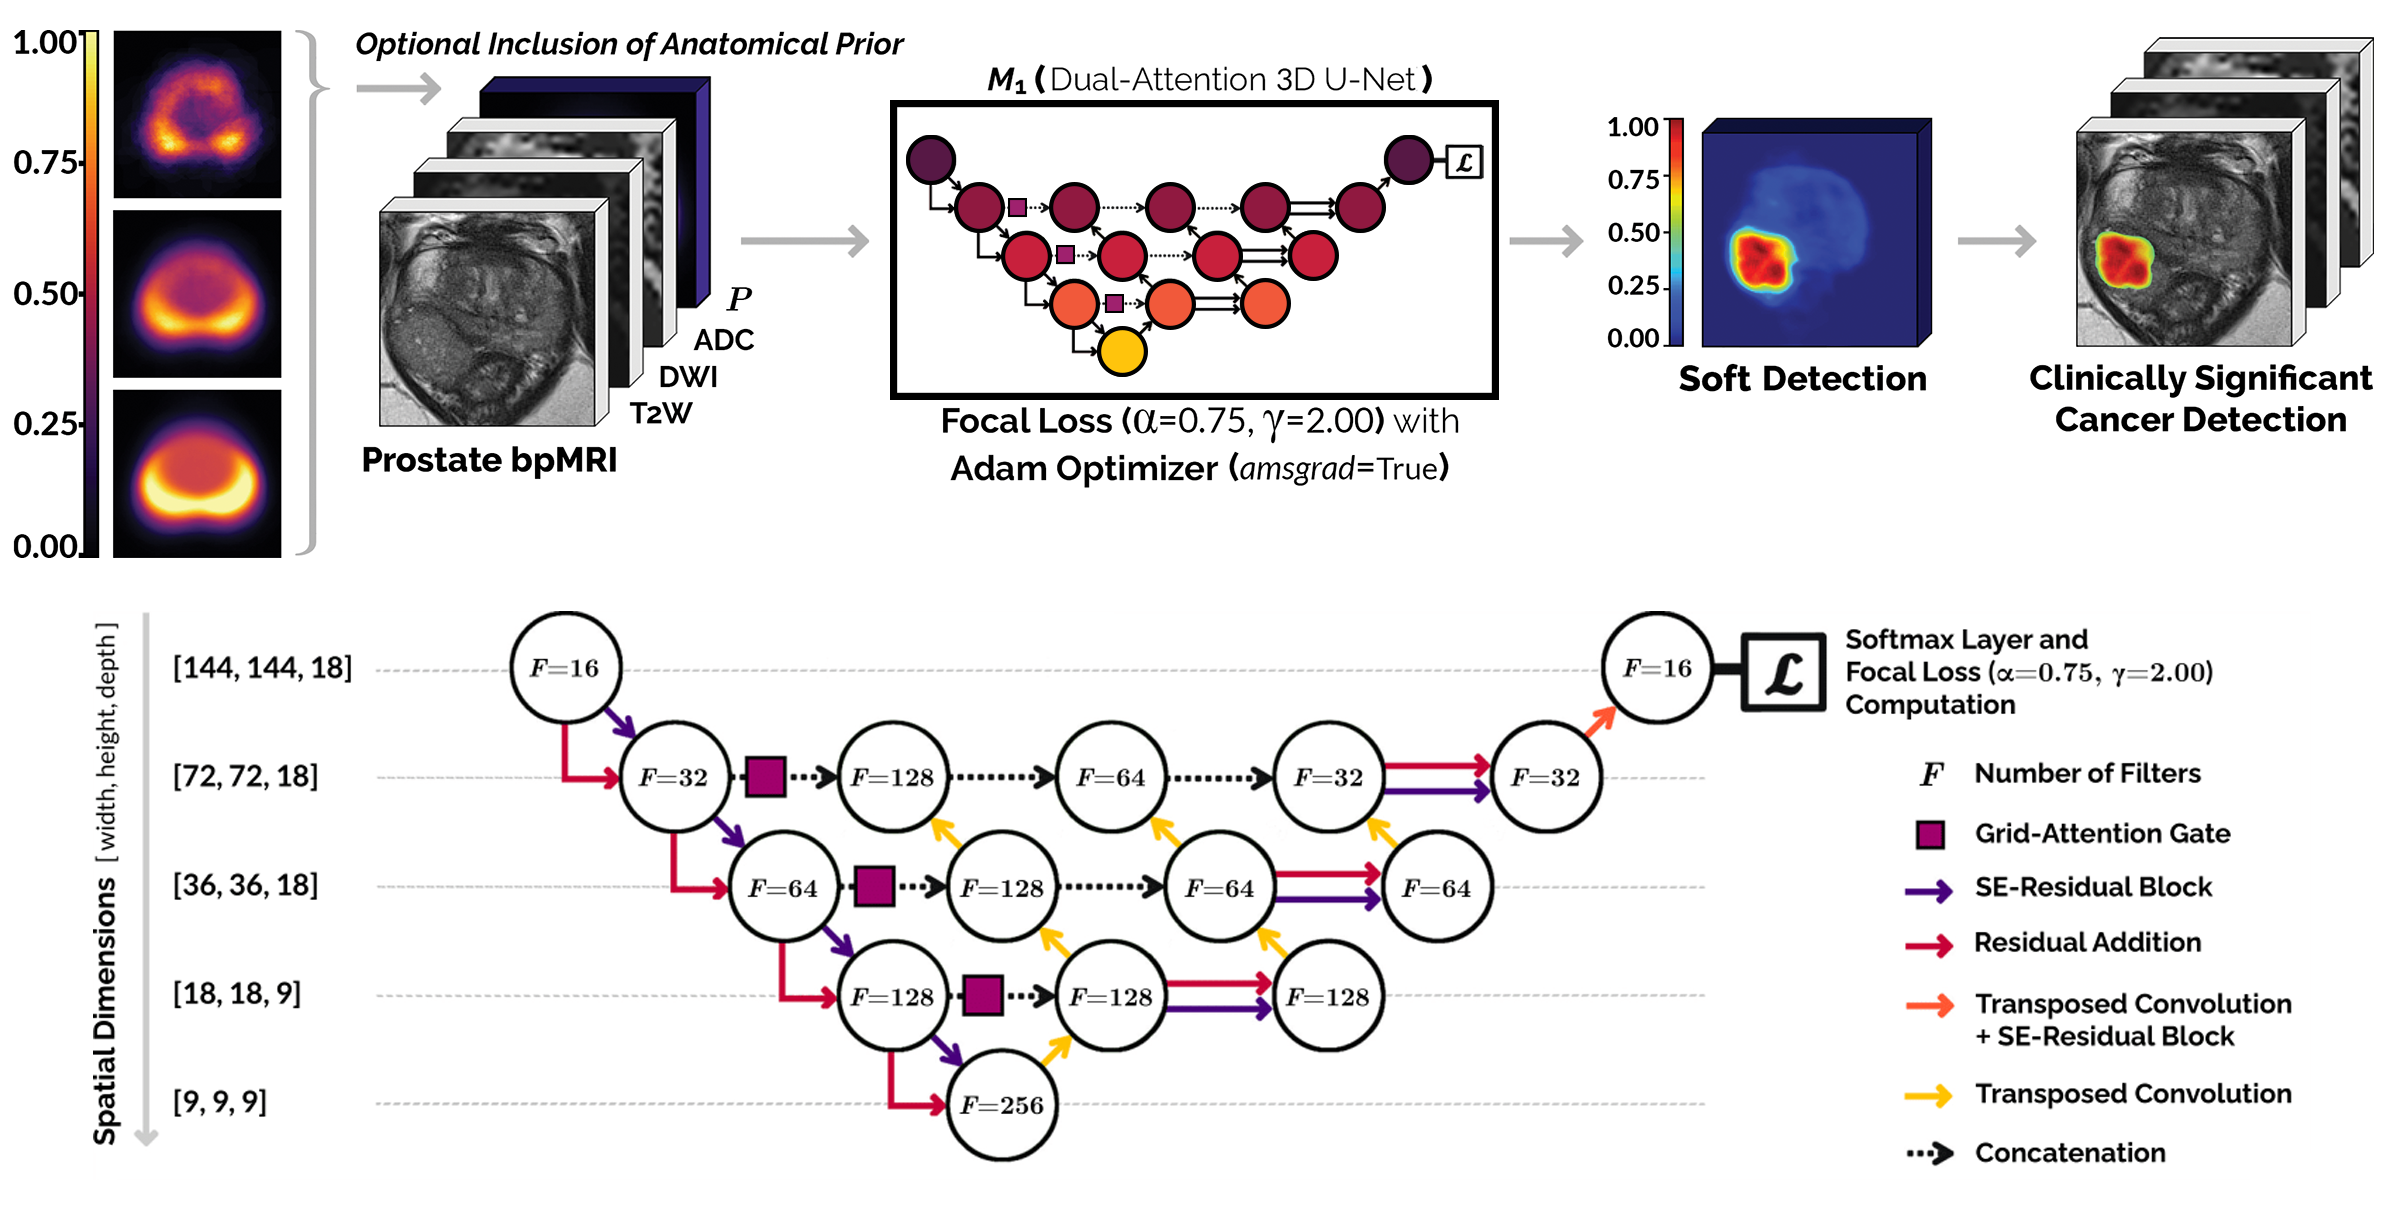
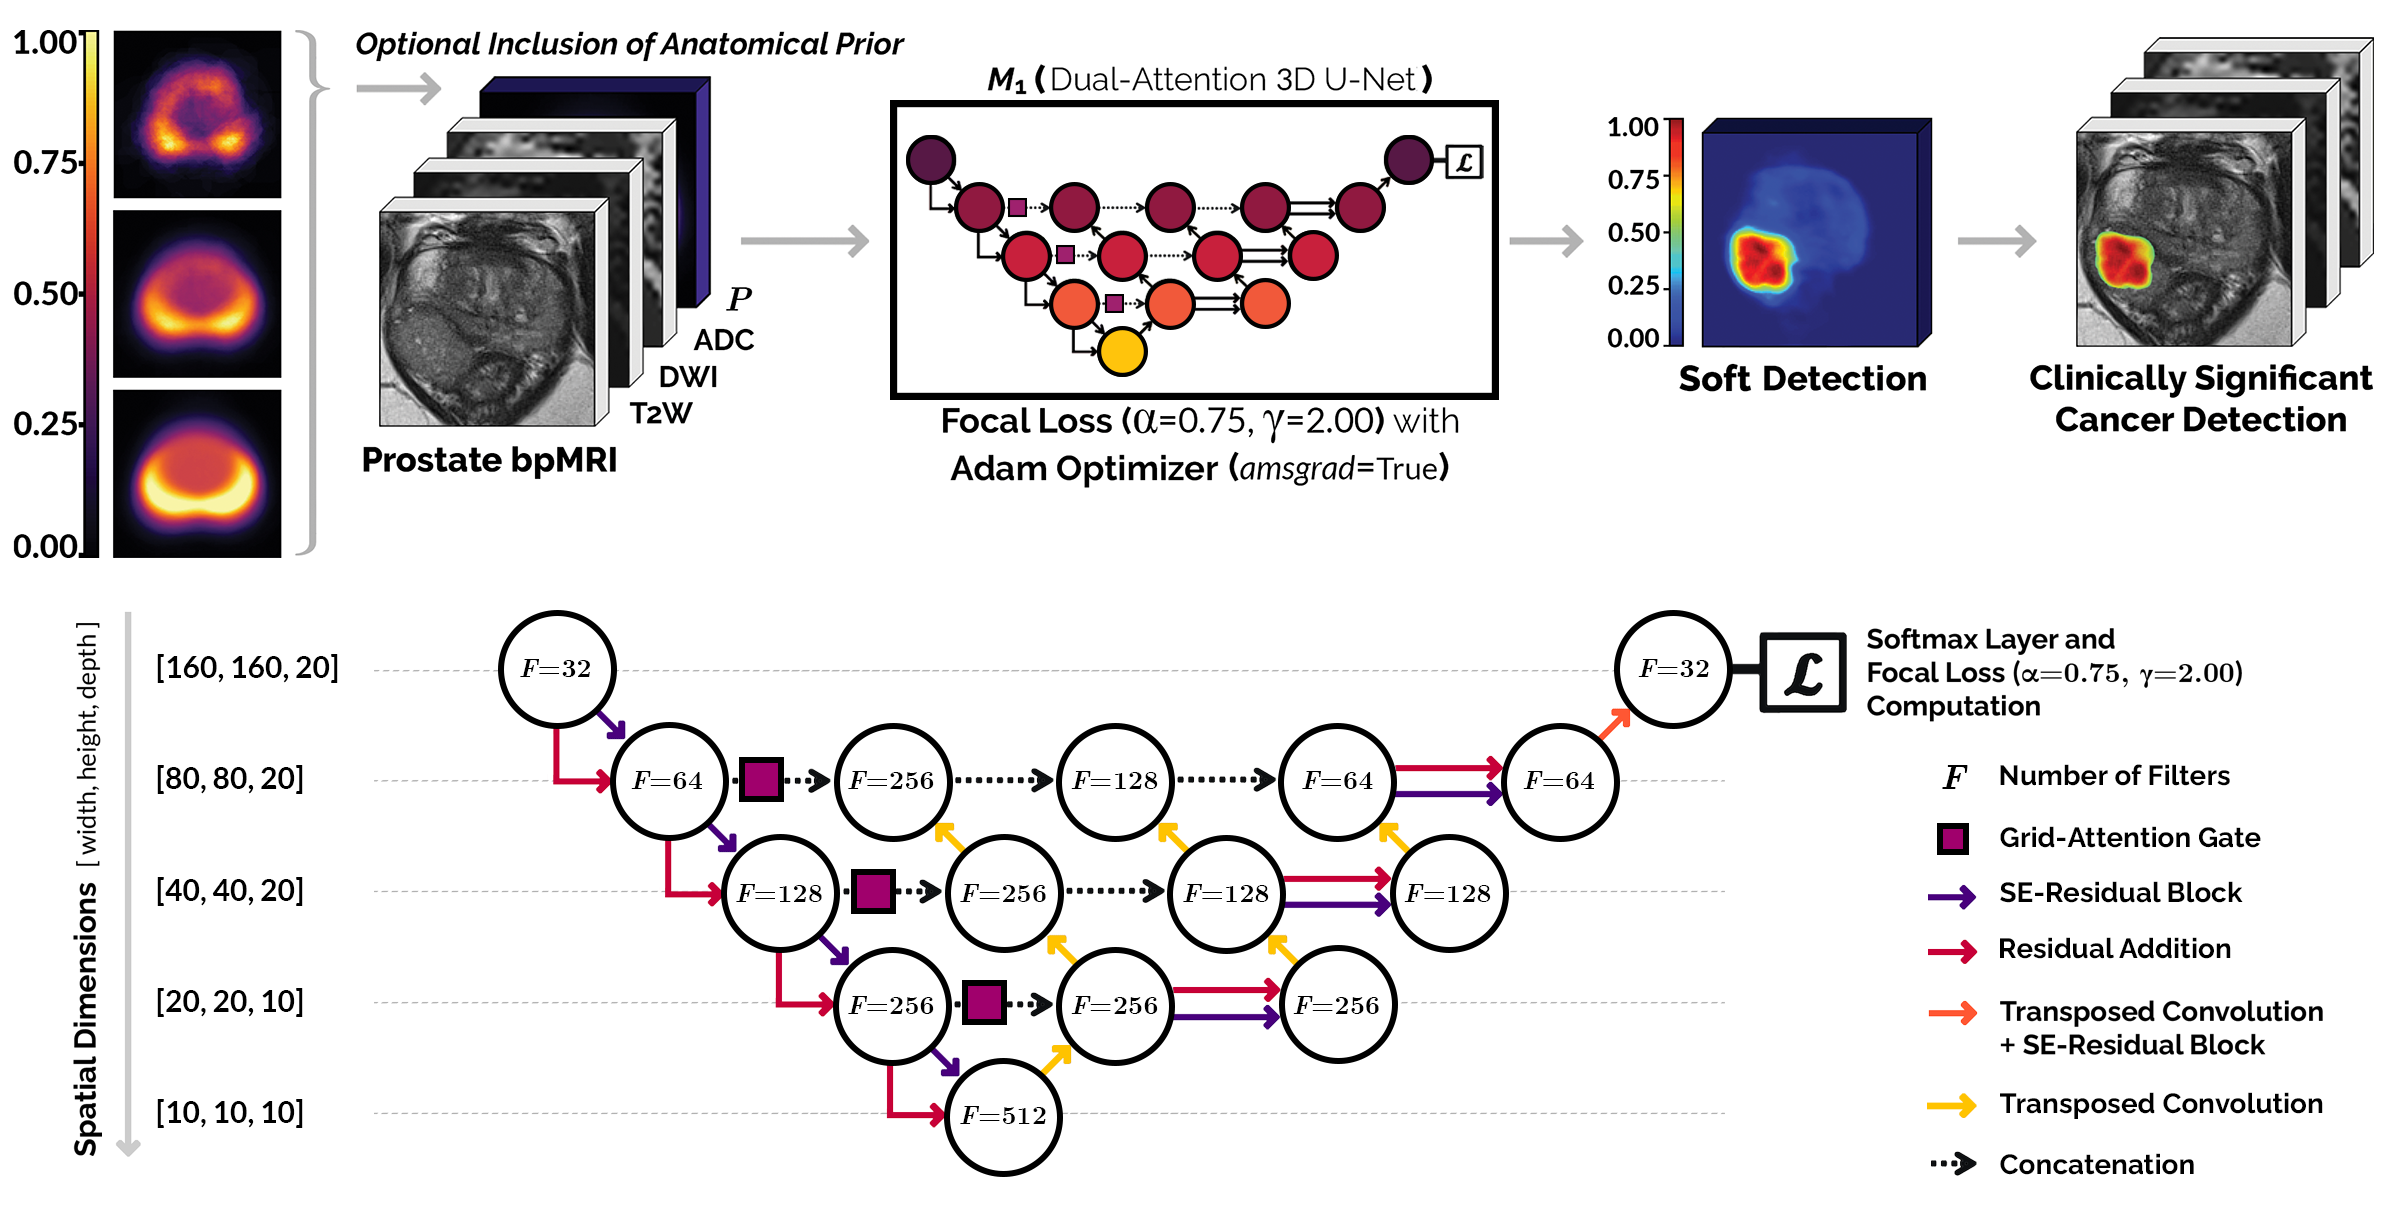
Test New Hyperparameters

Changed region(s): [[0.1855, 0.4992, 0.9273, 0.9672], [0.8037, 0.624, 0.9891, 0.9672], [0.0309, 0.4992, 0.1546, 0.9672]]

diff --git a/README.md b/README.md
@@ -15,10 +15,10 @@
 *(Reference: [Training CNNs in TF2: Walkthrough](https://www.tensorflow.org/tutorials/images/cnn) )*
 ```python
 # U-Net Model Definition (Note: Hyperparameters are Data-Centric and Require Adequate Tuning for Optimal Performance)
-unet_model = models.networks.M1(input_spatial_dims =  (18,144,144),            
+unet_model = models.networks.M1(input_spatial_dims =  (20,160,160),            
                                 input_channels     =   3,
                                 num_classes        =   2,                       
-                                filters            =  (16,32,64,128,256),   
+                                filters            =  (32,64,128,256,512),   
                                 strides            = ((1,1,1),(1,2,2),(1,2,2),(2,2,2),(1,2,2)),  
                                 kernel_sizes       = ((1,3,3),(1,3,3),(3,3,3),(3,3,3),(3,3,3)),  
                                 dropout_rate       =   0.50,       
